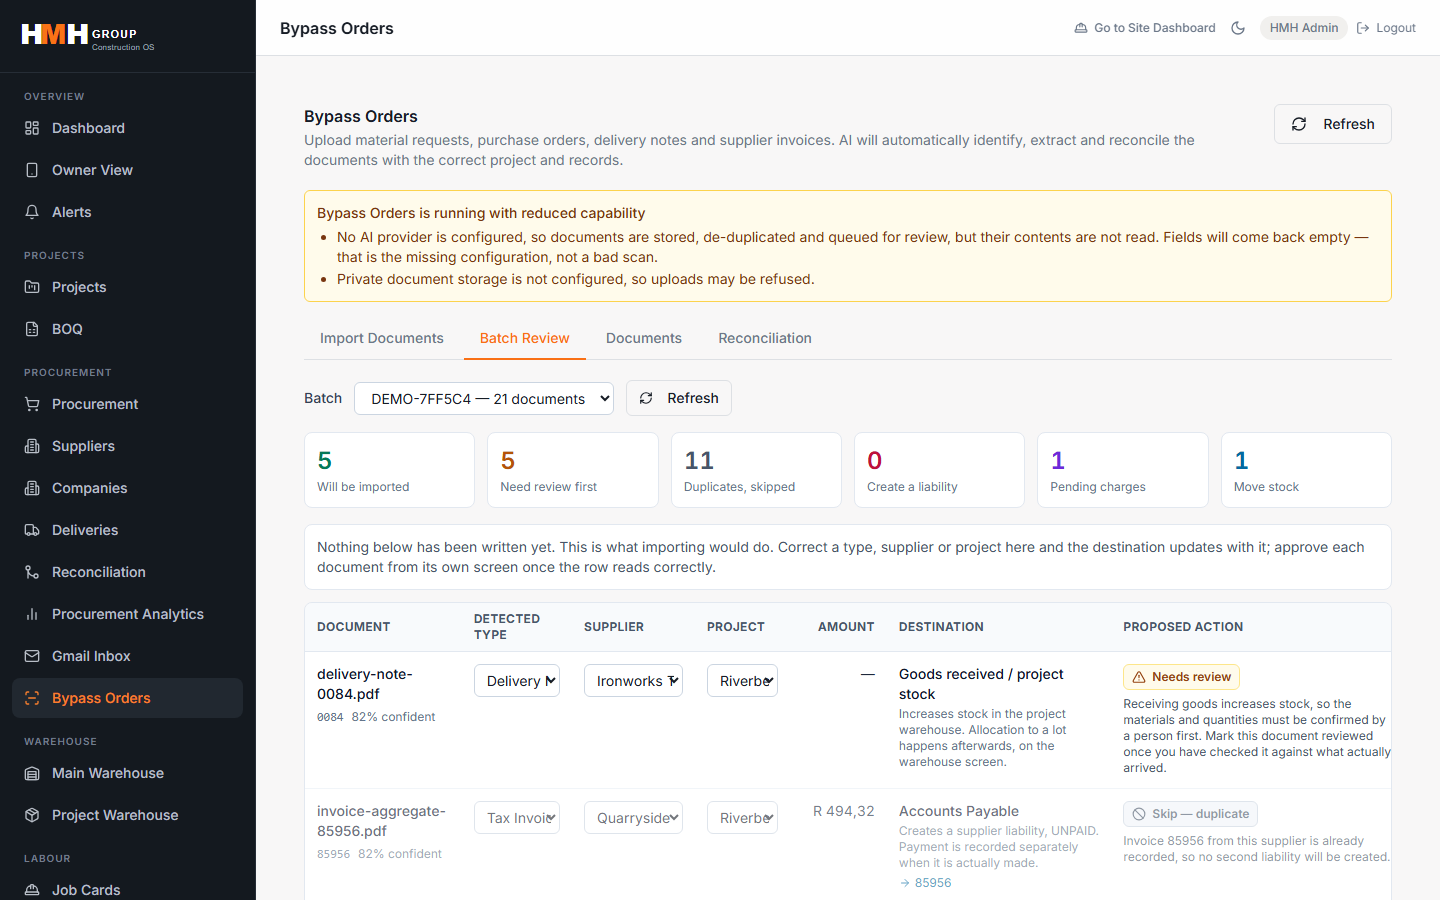
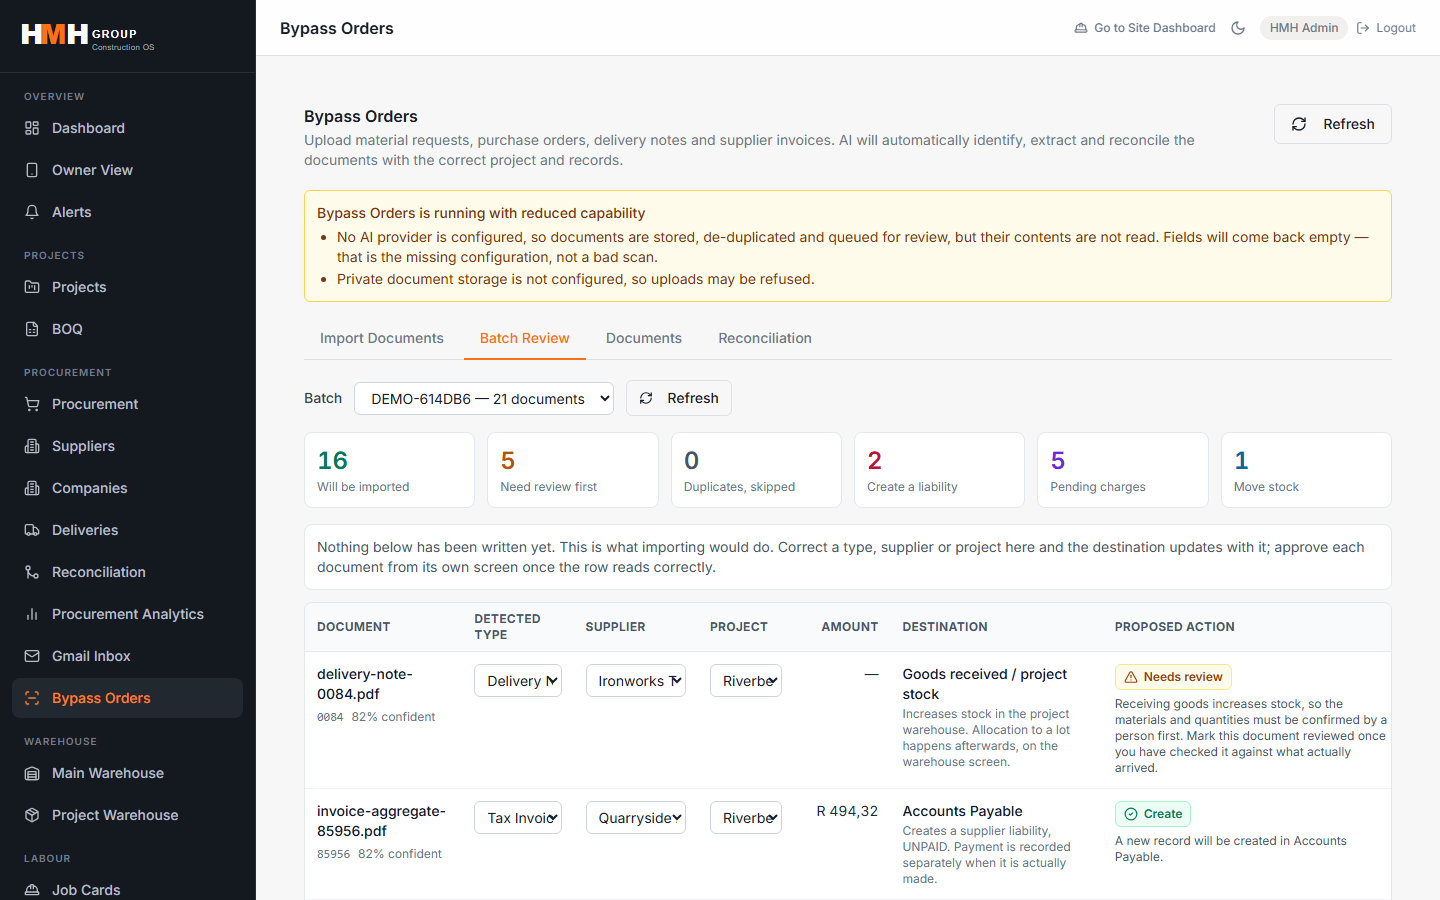
test: make the demo seed serve both audit screens at once
The two audit suites want different things from the same database. Batch
Review wants documents nobody has imported yet; Pending Supplier Charges
wants charges that exist. Running the workflow verification satisfies the
second by destroying the first, because it posts sixteen of the documents.

So the seed now creates the charges directly, under references deliberately
different from the pro-forma documents in the batch. Had they matched, those
documents would correctly have been flagged as duplicates of these rows —
correct behaviour that would have left the review screen with nothing to
review.

Spec fixes, all three mine rather than the product's:
  - tab buttons carry a count badge, so their accessible name is
    "Invoices 3"; anchoring the end of the name matched nothing
  - en-ZA groups thousands with U+00A0, which a plain space does not match
  - the open-request count was read by walking the DOM from a tile; it now
    counts table rows, because the rows are what the test is about and a
    tile's markup is not a contract

Both specs now say in their header that they need a freshly seeded batch.

diff --git a/hmh-backend/scripts/seed_mixed_batch_demo.py b/hmh-backend/scripts/seed_mixed_batch_demo.py
@@ -114,6 +114,28 @@ def _seed_settled_charge(db, project, suppliers, actor) -> None:
         notes="Demo row: already settled, to show the closed state.",
     )
 
+    # The open requests the pro-forma documents in this batch would produce
+    # once imported. Created directly so the screen has something to show
+    # without the batch having been posted — the two are separate concerns,
+    # and a seed that required posting would leave the Batch Review screen
+    # with nothing left to review.
+    # References deliberately different from the pro-forma documents in the
+    # batch. If they matched, those documents would correctly be flagged as
+    # duplicates of these rows, and the Batch Review screen would have
+    # nothing left to demonstrate.
+    for reference, name, amount in (
+        ("P88120",   "Vantage Readymix",      17444.89),
+        ("P88121",   "Vantage Readymix",      17444.89),
+        ("QTE5410",  "Maswell Blocks",        12254.00),
+        ("SQ470880", "Coastal Cement",         3407.77),
+    ):
+        charges.create_charge(
+            db, project_id=project.id, supplier_id=suppliers[name].id,
+            reference=reference, total_amount=amount, actor_id=actor.id,
+            issue_date=date(2026, 8, 14),
+            notes="Demo row: an open request awaiting the supplier's invoice.",
+        )
+
     invoice = Invoice(
         invoice_number="MB-44120", supplier_id=supplier.id, project_id=project.id,
         purchase_order_id=po.id, invoice_date=date(2026, 8, 26),
